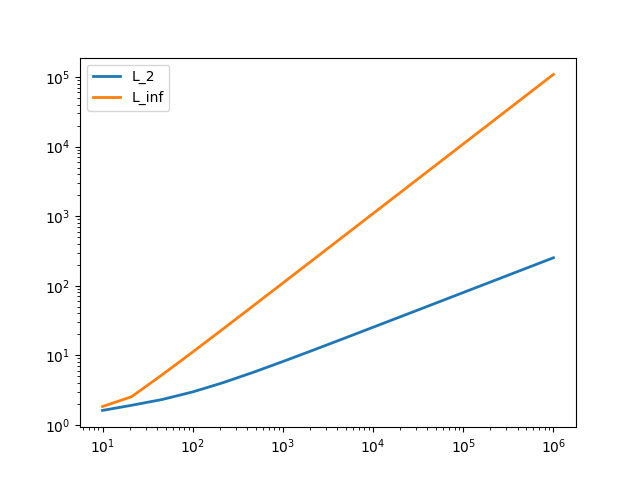
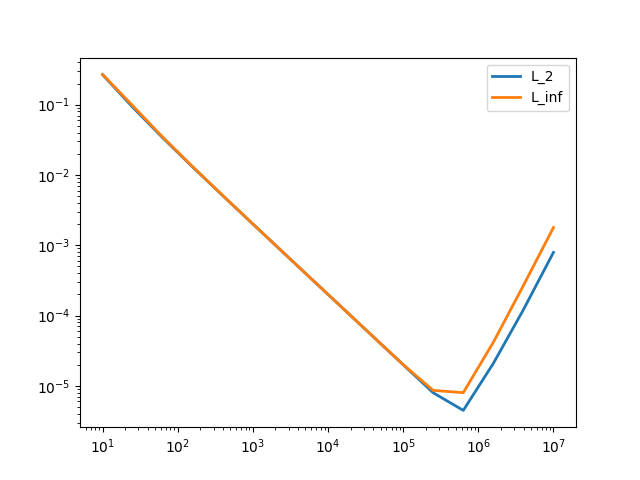
Got second derivative working... why does it diverge?

diff --git a/Scripts/problem_0_2.py b/Scripts/problem_0_2.py
@@ -14,41 +14,41 @@ def finiteDiff(a,b,n):
     # uses second order centered difference to approximate the derivative
     # inputs: a - start, b - stop, n - number of nodes 
     # Outputs: x - mesh, df_approx - approximation of first derivative
-    x = np.linspace(a, b, n)
+    x = np.linspace(a, b, n, endpoint = False)
     h = (b-a)/(n-1)
     y = f(x)
-    df_approx = np.zeros(x.size)
-    for i in range(x.size):
+    df_approx = np.zeros(y.size)
+    for i in range(y.size):
         df_approx[i] = (y[(i+1)%y.size] - 2*y[i] + y[i-1]) / h**2 # The modulo (%) here lets us enforce periodicity on the array (python will loop back when over indexed)
     return x, df_approx
 
 def rel_error(a, b, n):
-    x, df_approx = finiteDiff(a,b,n)
-    df_exact = df(x) # get the analytical solution
-    L_2_error = np.linalg.norm(df_exact-df_approx)/np.linalg.norm(df_exact)
-    L_inf_error = np.linalg.norm(df_exact-df_approx,ord=np.inf)/np.linalg.norm(df_exact,ord=np.inf)
+    x, d2f_approx = finiteDiff(a,b,n)
+    d2f_exact = d2f(x) # get the analytical solution
+    L_2_error = np.linalg.norm(d2f_exact-d2f_approx)/np.linalg.norm(d2f_exact)
+    L_inf_error = np.linalg.norm(d2f_exact-d2f_approx,ord=np.inf)/np.linalg.norm(d2f_exact,ord=np.inf)
     return L_2_error, L_inf_error
 
 def main():
     # Part 1
-    x_exact = np.linspace(0, 2*np.pi, 1001)
+    x_exact = np.linspace(0, 2*np.pi, 1000, endpoint = False)
     d2f_exact = d2f(x_exact) # Calculate the analytical solution
-    x_approx, d2f_approx = finiteDiff(0,2*np.pi, 21) # approximate using FD + 21 nodes
+    x_approx, d2f_approx = finiteDiff(0, 2*np.pi, 50) # approximate using FD + 21 nodes
 
     plt.rcParams['lines.linewidth'] = 2 # set a wider line width for all plots in this script
     plt.figure(1)
     plt.plot(x_exact, d2f_exact, label = "Exact Solution")
-    plt.plot(x_approx, d2f_approx, 'r--', label = "N=21 FD-Approx")
+    plt.plot(x_approx, d2f_approx, 'r--', label = "N=20 FD-Approx")
     plt.legend()
     plt.savefig('Images\problem2_1.png')
 
     # Part 2
     num_trials = 16
-    meshes = np.floor(np.logspace(1, 6, num_trials)).astype(int)
+    meshes = np.floor(np.logspace(1, 7, num_trials)).astype(int)
     L_2 = np.zeros(num_trials)
     L_inf = np.zeros(num_trials)
     for i in range(num_trials):
-        L_2[i], L_inf[i] = rel_error(0, 2*np.pi, meshes[i])
+        L_2[i], L_inf[i] = rel_error(0, 2*np.pi, meshes[i]) #calculate relative errors for increasingly finer meshes.
 
     plt.figure(2)
     plt.loglog(meshes, L_2, label = "L_2")
